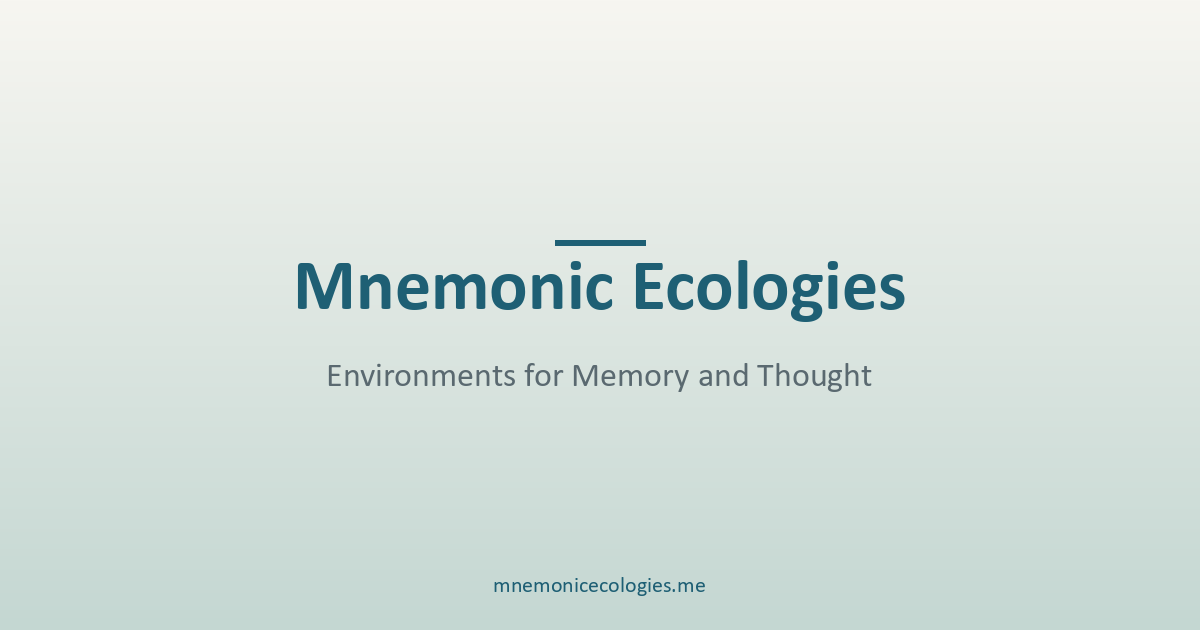
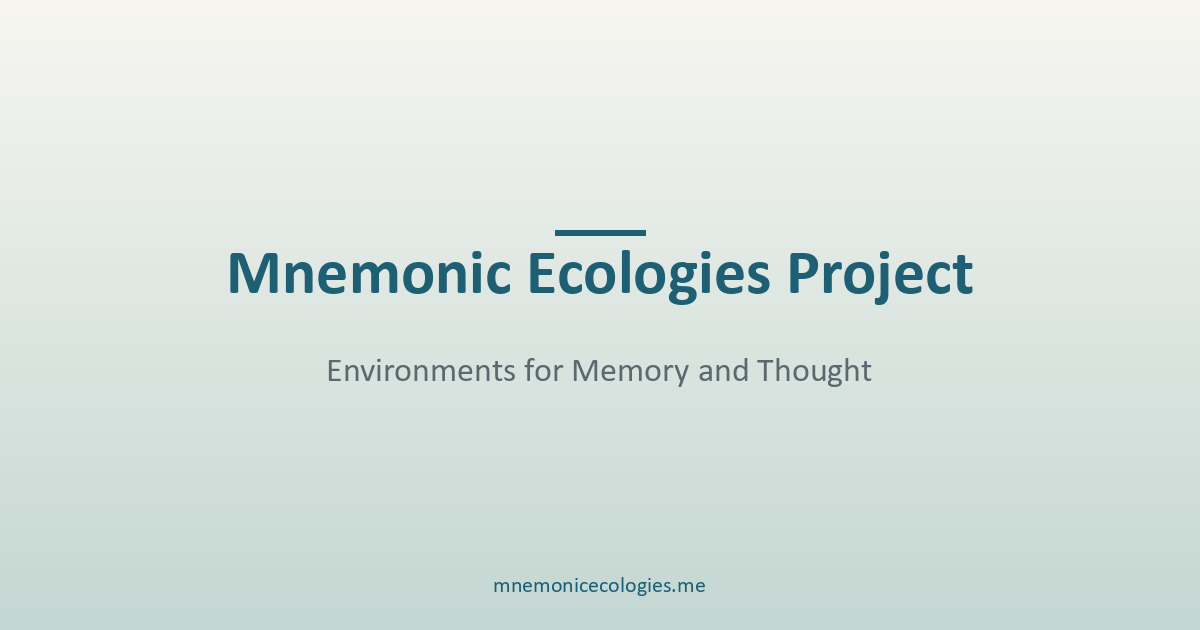
rename: Mnemonic Ecologies → Mnemonic Ecologies Project
Updated official name across all pages: titles, og:site_name, og:title,
twitter:title, JSON-LD name, nav logo, footer, hero wordmark, manifest.json.
Regenerated og-image.png with updated name.

Changed region(s): [[0.185, 0.3619, 0.8325, 0.5127], [0.2775, 0.573, 0.74, 0.6333]]

diff --git a/index.html b/index.html
@@ -15,21 +15,21 @@
   <link rel="alternate" hreflang="en-AU" href="https://mnemonicecologies.me/" />
   <link rel="alternate" hreflang="x-default" href="https://mnemonicecologies.me/" />
 
-  <title>Mnemonic Ecologies — Environments for Memory and Thought</title>
+  <title>Mnemonic Ecologies Project — Environments for Memory and Thought</title>
   <meta name="description" content="Mnemonic Ecologies builds technological environments that shape how we think and learn through mnemonics and memory. Projects include Inkwave, DotComma, Global Threat Forum, and Inktrain." />
 
   <link rel="canonical" href="https://mnemonicecologies.me/" />
 
   <meta property="og:type" content="website" />
   <meta property="og:url" content="https://mnemonicecologies.me/" />
-  <meta property="og:title" content="Mnemonic Ecologies — Environments for Memory and Thought" />
+  <meta property="og:title" content="Mnemonic Ecologies Project — Environments for Memory and Thought" />
   <meta property="og:description" content="Technological environments that shape how we think and learn through mnemonics and memory." />
   <meta property="og:image" content="https://mnemonicecologies.me/og-image.png" />
   <meta property="og:locale" content="en" />
-  <meta property="og:site_name" content="Mnemonic Ecologies" />
+  <meta property="og:site_name" content="Mnemonic Ecologies Project" />
 
   <meta name="twitter:card" content="summary_large_image" />
-  <meta name="twitter:title" content="Mnemonic Ecologies — Environments for Memory and Thought" />
+  <meta name="twitter:title" content="Mnemonic Ecologies Project — Environments for Memory and Thought" />
   <meta name="twitter:description" content="Technological environments that shape how we think and learn through mnemonics and memory." />
   <meta name="twitter:image" content="https://mnemonicecologies.me/og-image.png" />
 
@@ -39,7 +39,7 @@
   {
     "@context": "https://schema.org",
     "@type": "Organization",
-    "name": "Mnemonic Ecologies",
+    "name": "Mnemonic Ecologies Project",
     "url": "https://mnemonicecologies.me",
     "description": "A project studio building mnemonic environments — technological environments that shape how we think and learn through mnemonics and memory.",
     "sameAs": ["https://inkwave.me", "https://dotcomma.com.au", "https://globalthreatforum.com"]
@@ -51,7 +51,7 @@
   <a href="#main" class="skip-link">Skip to content</a>
 
   <nav aria-label="Main navigation">
-    <a href="/" class="nav-logo" aria-label="Mnemonic Ecologies home">Mnemonic Ecologies</a>
+    <a href="/" class="nav-logo" aria-label="Mnemonic Ecologies Project home">Mnemonic Ecologies Project</a>
     <div class="nav-links">
       <a href="/" class="active" aria-current="page">Home</a>
       <a href="/philosophy">Philosophy</a>
@@ -61,7 +61,7 @@
 
   <main id="main">
     <section class="hero" aria-labelledby="hero-heading">
-      <p class="hero-wordmark">Mnemonic <em>Ecologies</em></p>
+      <p class="hero-wordmark">Mnemonic <em>Ecologies</em> Project</p>
       <div class="hero-bar" aria-hidden="true"></div>
       <p class="tagline">A project studio building environments for memory and thought.</p>
       <p class="feedback-note">We want your feedback — please get in touch.</p>
@@ -102,7 +102,7 @@
   </main>
 
   <footer>
-    <p>Mnemonic Ecologies &middot; <a href="/contact">get in touch</a> &middot; Built in Brisbane, Australia</p>
+    <p>Mnemonic Ecologies Project &middot; <a href="/contact">get in touch</a> &middot; Built in Brisbane, Australia</p>
   </footer>
 
 </body>

diff --git a/contact.html b/contact.html
@@ -22,21 +22,21 @@
 
   <meta property="og:type" content="website" />
   <meta property="og:url" content="https://mnemonicecologies.me/contact" />
-  <meta property="og:title" content="Contact | Mnemonic Ecologies" />
+  <meta property="og:title" content="Contact | Mnemonic Ecologies Project" />
   <meta property="og:description" content="We want your feedback, questions, and ideas." />
   <meta property="og:image" content="https://mnemonicecologies.me/og-image.png" />
-  <meta property="og:site_name" content="Mnemonic Ecologies" />
+  <meta property="og:site_name" content="Mnemonic Ecologies Project" />
 
   <link rel="stylesheet" href="/style.css" />
   <script type="application/ld+json">
   {
   "@context": "https://schema.org",
   "@type": "WebPage",
-  "name": "Contact | Mnemonic Ecologies",
+  "name": "Contact | Mnemonic Ecologies Project",
   "url": "https://mnemonicecologies.me/contact",
   "isPartOf": {
     "@type": "WebSite",
-    "name": "Mnemonic Ecologies",
+    "name": "Mnemonic Ecologies Project",
     "url": "https://mnemonicecologies.me/"
   },
   "breadcrumb": {
@@ -64,7 +64,7 @@
   <a href="#main" class="skip-link">Skip to content</a>
 
   <nav aria-label="Main navigation">
-    <a href="/" class="nav-logo" aria-label="Mnemonic Ecologies home">Mnemonic Ecologies</a>
+    <a href="/" class="nav-logo" aria-label="Mnemonic Ecologies Project home">Mnemonic Ecologies Project</a>
     <div class="nav-links">
       <a href="/">Home</a>
       <a href="/philosophy">Philosophy</a>
@@ -97,7 +97,7 @@
   </main>
 
   <footer>
-    <p>Mnemonic Ecologies &middot; <a href="/contact">get in touch</a> &middot; Built in Brisbane, Australia</p>
+    <p>Mnemonic Ecologies Project &middot; <a href="/contact">get in touch</a> &middot; Built in Brisbane, Australia</p>
   </footer>
 
 </body>

diff --git a/philosophy.html b/philosophy.html
@@ -22,21 +22,21 @@
 
   <meta property="og:type" content="article" />
   <meta property="og:url" content="https://mnemonicecologies.me/philosophy" />
-  <meta property="og:title" content="Philosophy | Mnemonic Ecologies" />
+  <meta property="og:title" content="Philosophy | Mnemonic Ecologies Project" />
   <meta property="og:description" content="Treating mnemonics as more than memory devices, and building environments that shape how we think and learn." />
   <meta property="og:image" content="https://mnemonicecologies.me/og-image.png" />
-  <meta property="og:site_name" content="Mnemonic Ecologies" />
+  <meta property="og:site_name" content="Mnemonic Ecologies Project" />
 
   <link rel="stylesheet" href="/style.css" />
   <script type="application/ld+json">
   {
   "@context": "https://schema.org",
   "@type": "WebPage",
-  "name": "Philosophy | Mnemonic Ecologies",
+  "name": "Philosophy | Mnemonic Ecologies Project",
   "url": "https://mnemonicecologies.me/philosophy",
   "isPartOf": {
     "@type": "WebSite",
-    "name": "Mnemonic Ecologies",
+    "name": "Mnemonic Ecologies Project",
     "url": "https://mnemonicecologies.me/"
   },
   "breadcrumb": {
@@ -64,7 +64,7 @@
   <a href="#main" class="skip-link">Skip to content</a>
 
   <nav aria-label="Main navigation">
-    <a href="/" class="nav-logo" aria-label="Mnemonic Ecologies home">Mnemonic Ecologies</a>
+    <a href="/" class="nav-logo" aria-label="Mnemonic Ecologies Project home">Mnemonic Ecologies Project</a>
     <div class="nav-links">
       <a href="/">Home</a>
       <a href="/philosophy" class="active" aria-current="page">Philosophy</a>
@@ -126,7 +126,7 @@
   </main>
 
   <footer>
-    <p>Mnemonic Ecologies &middot; <a href="/contact">get in touch</a> &middot; Built in Brisbane, Australia</p>
+    <p>Mnemonic Ecologies Project &middot; <a href="/contact">get in touch</a> &middot; Built in Brisbane, Australia</p>
   </footer>
 
 </body>

diff --git a/404.html b/404.html
@@ -23,7 +23,7 @@
     <a href="/" class="cta">Go home →</a>
   </main>
   <footer>
-    <p>Mnemonic Ecologies &middot; <a href="/contact">get in touch</a></p>
+    <p>Mnemonic Ecologies Project &middot; <a href="/contact">get in touch</a></p>
   </footer>
 </body>
 </html>